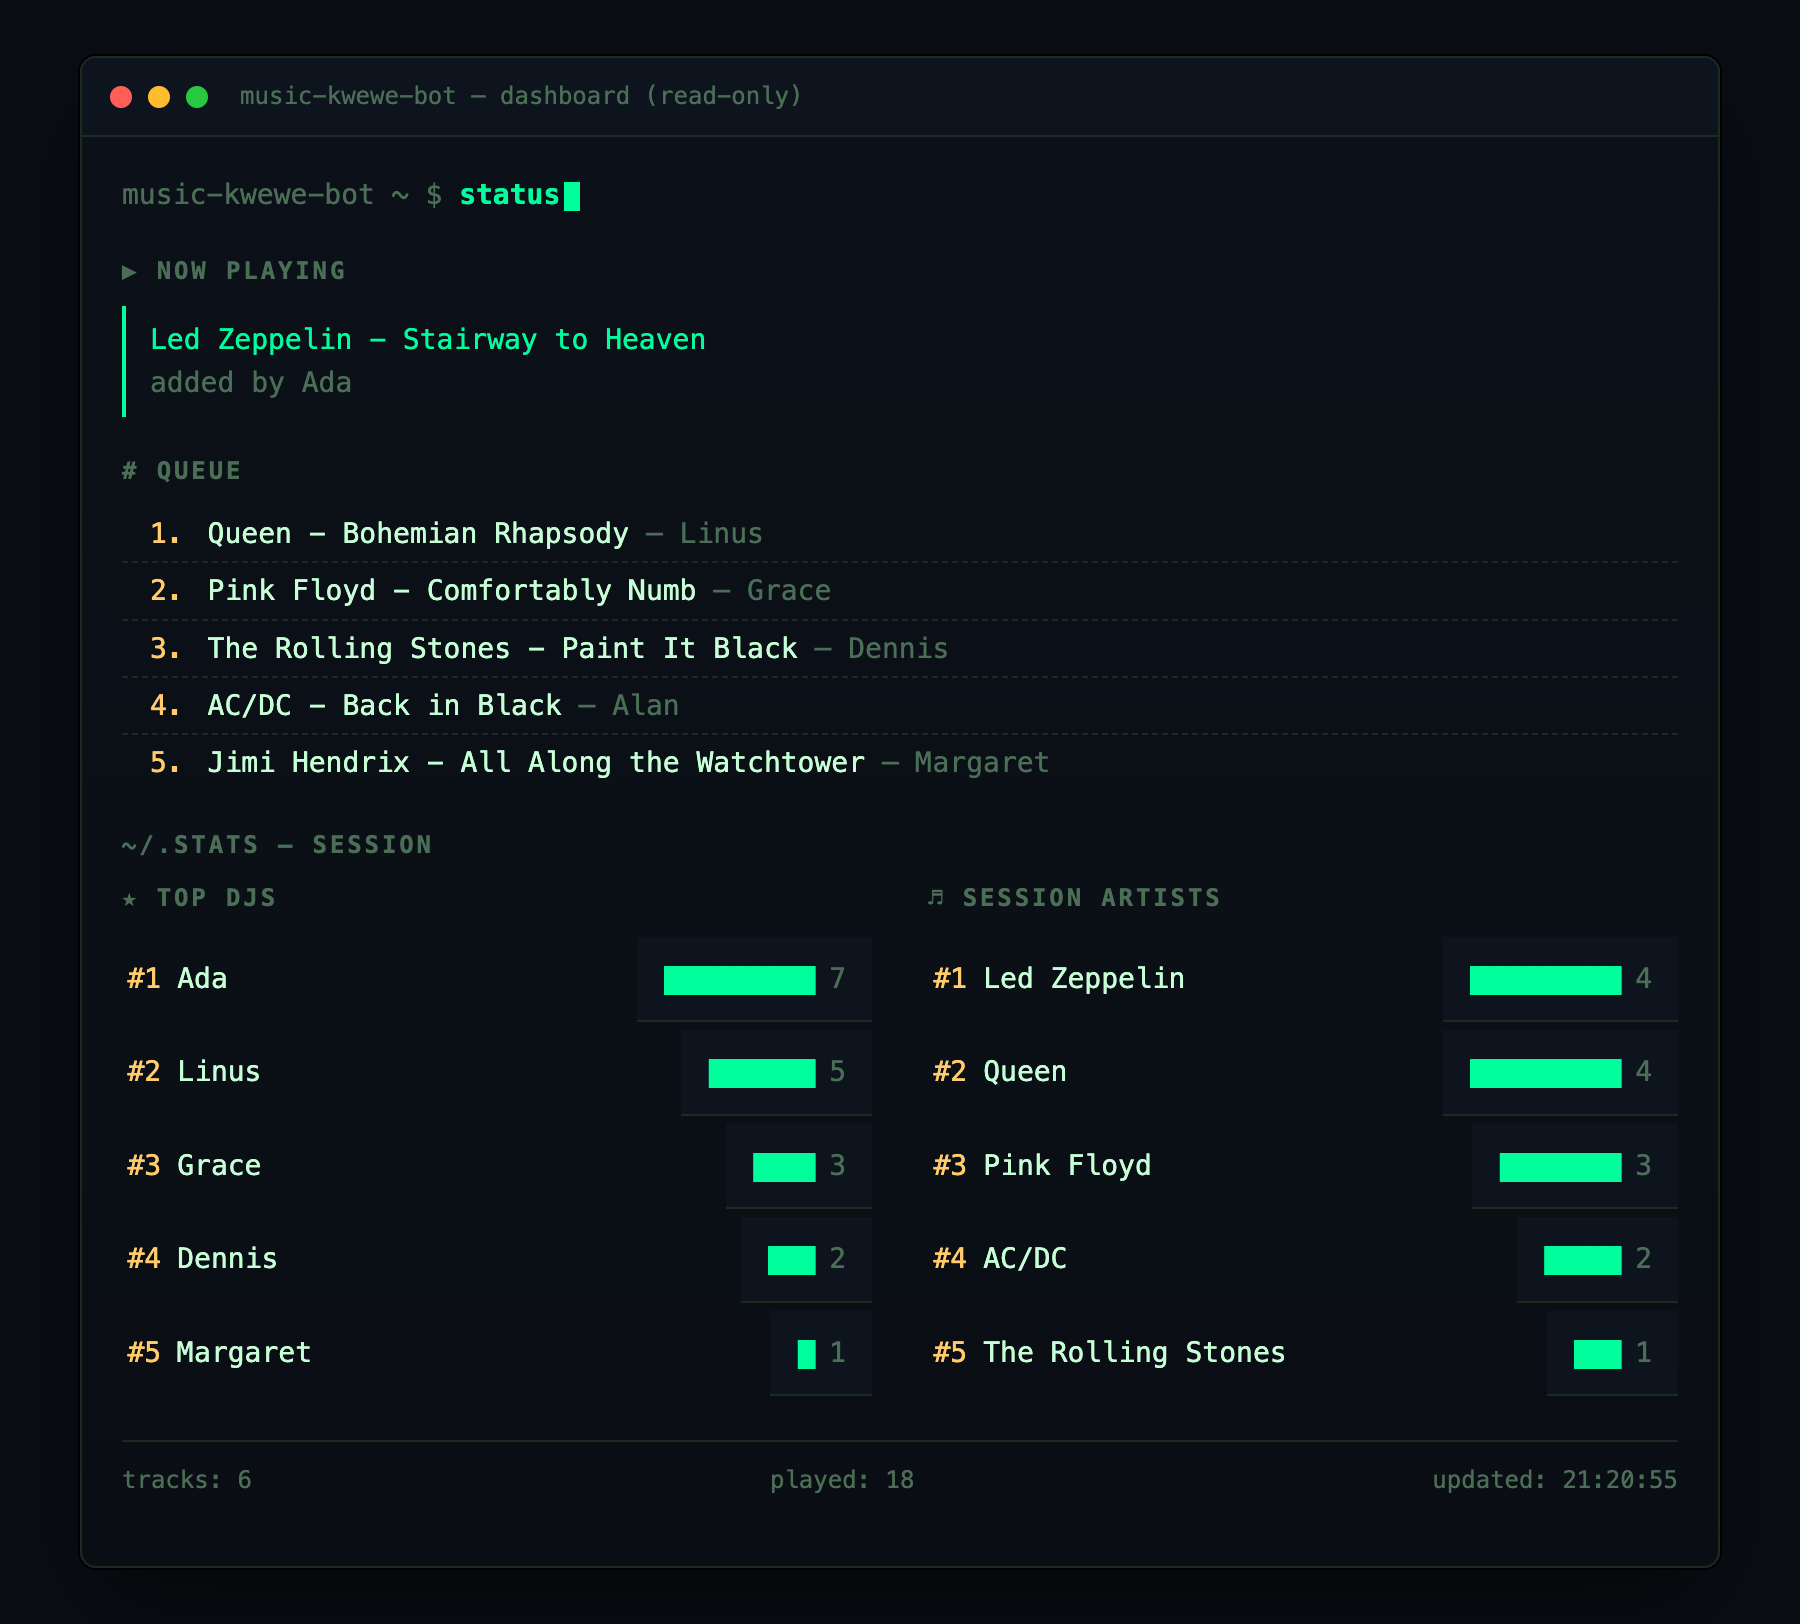
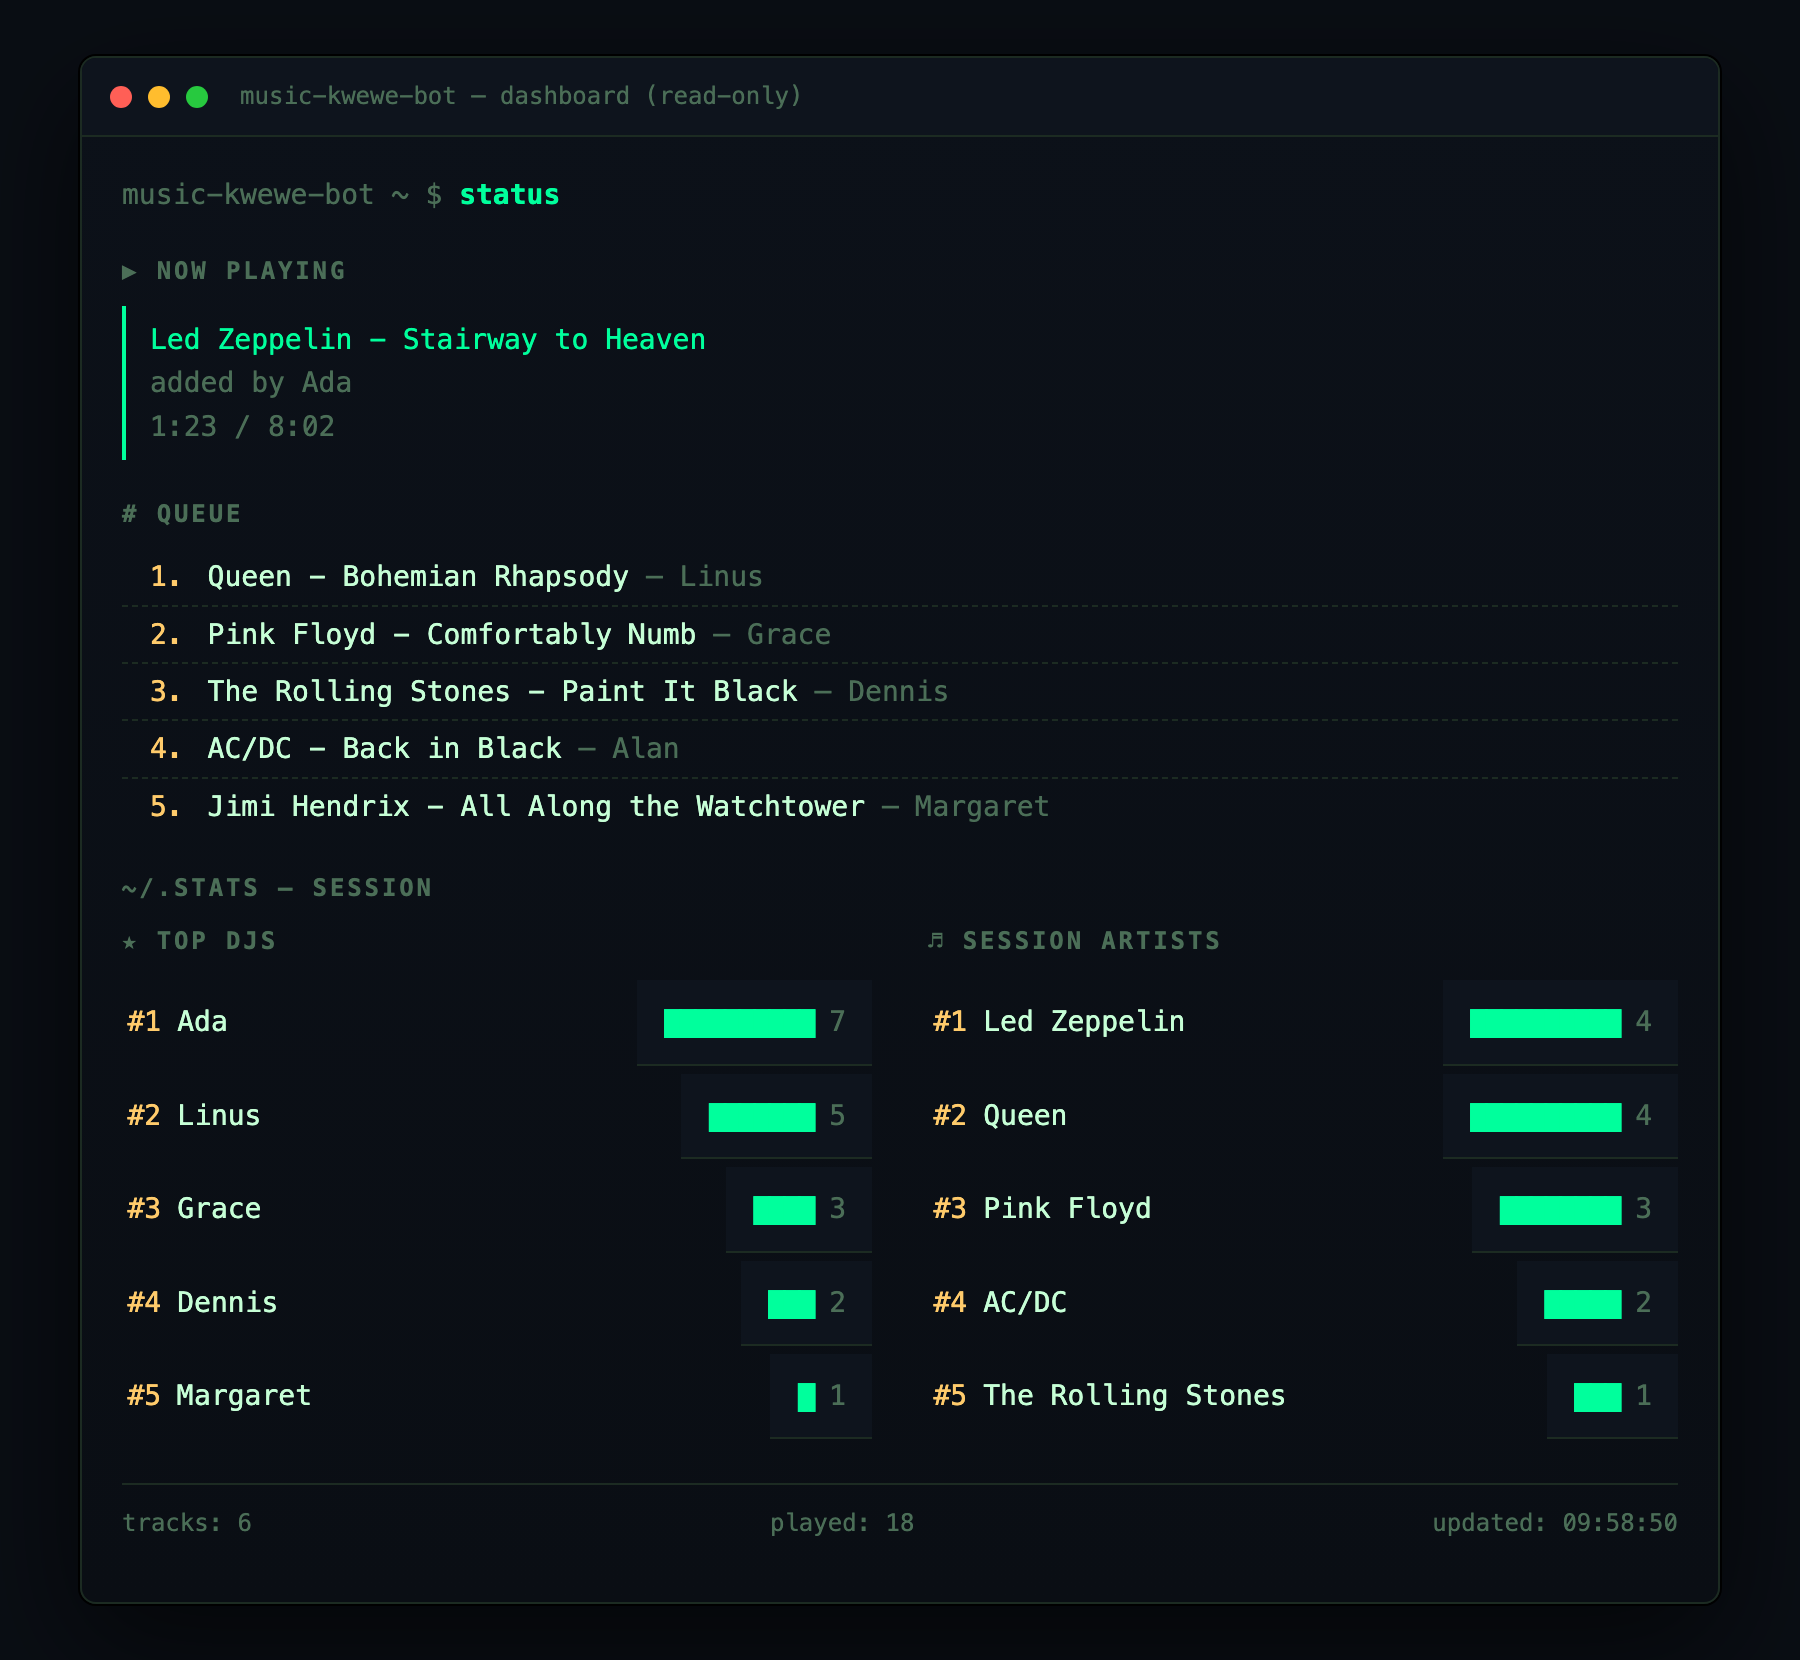
Reframe README around collaborative sessions, refresh screenshot
Pitch the project as a shared listening session instead of an aux-cord
fix, and document the newer features: /pause, the progress clock, and
duplicate detection. The dashboard screenshot is recaptured from the
seeded preview, whose now-playing sample now carries elapsed/duration
so the progress line shows.

diff --git a/cmd/dashpreview/main.go b/cmd/dashpreview/main.go
@@ -11,7 +11,7 @@ import (
 )
 
 const sampleState = `{
-  "now_playing": { "title": "Led Zeppelin - Stairway to Heaven", "added_by": "Ada", "url": "https://www.youtube.com/watch?v=qZTh8DK7jdk" },
+  "now_playing": { "title": "Led Zeppelin - Stairway to Heaven", "added_by": "Ada", "url": "https://www.youtube.com/watch?v=qZTh8DK7jdk", "elapsed": 83, "duration": 482 },
   "queue": [
     { "title": "Queen - Bohemian Rhapsody", "added_by": "Linus", "url": "https://www.youtube.com/watch?v=fJ9rUzIMcZQ" },
     { "title": "Pink Floyd - Comfortably Numb", "added_by": "Grace", "url": "https://www.youtube.com/watch?v=_FrOQC-zEog" },

diff --git a/README.md b/README.md
@@ -1,32 +1,35 @@
 # 🎸 music-kwewe-bot
 
-> One Telegram chat. One speaker. Everybody's a DJ.
+> One group chat. One speaker. Everybody's a DJ.
 
-You know the scene: a few friends, a room, and one set of speakers. Someone
-hooks their laptop up, and for the rest of the night it's a fight over the aux
-cable. **music-kwewe-bot** is the fix. Drop a YouTube link in the group chat and
-it lands in a shared queue — first come, first played, no aux wars. Everyone
-adds, the bot plays them back-to-back, and the running order is fair game for
-the whole crew.
+Get some friends in a room and somebody's phone ends up being the soundtrack —
+one person's playlist, everyone else just along for the ride.
+**music-kwewe-bot** turns that into a session everybody plays: drop YouTube
+links in the group chat and they land in one shared queue, played
+back-to-back in the order they arrived. Your indie deep cut, someone's 2010s
+guilty pleasure, that one friend's habibi-core phase — every taste gets
+airtime, and the session stats show exactly whose night it was.
 
 It's a tiny Go service: a Telegram bot up front, a queue in the middle, and
 `mpv` doing the actual playing out the back.
 
 ![dashboard](assets/dashboard.png)
 
-*(the read-only dashboard — what's spinning now, who queued what, plus the
-session's top DJs and most-played artists)*
+*(the read-only dashboard — what's spinning and how far in, who queued what,
+plus the session's top DJs and most-played artists)*
 
 ## The vibe
 
 - 🎶 **Everyone's the DJ.** Paste a link, it's in the queue. The bot tells the
   chat what just got added and what's playing now.
-- 🤝 **No aux wars.** It's a fair FIFO line. Your banger plays after the bangers
-  ahead of it — not whenever someone yanks the cable.
+- 🤝 **Every taste gets a turn.** It's a fair FIFO line — techno, tarab, or
+  Taylor Swift, your banger plays right after the bangers ahead of it.
 - 🙋 **Credit where it's due.** Every track remembers who queued it, so the
   group knows exactly who's responsible for that third Nickelback song.
-- 🖥 **A little terminal dashboard.** Open it in a browser to see the now-playing
-  track and the full lineup, live.
+- ⏯ **Run it from the couch.** Pause, resume, and skip straight from the chat,
+  with a live progress clock so you know how much of the sad song is left.
+- 🖥 **A little terminal dashboard.** Watch the session live in a browser — or
+  in an actual terminal, if that's more your thing.
 
 ## How it actually works
 
@@ -37,18 +40,21 @@ Telegram chat  →  bot (links + commands)  →  shared FIFO queue  →  player 
 ```
 
 - **bot** — reads the group chat. Any YouTube / `youtu.be` / `music.youtube.com`
-  link gets queued; slash commands run the show.
+  link gets queued; slash commands run the show. Duplicates get bounced with a
+  pointer to where the track already sits.
 - **queue** — an in-memory, thread-safe line. First in, first played.
 - **player** — pulls one track at a time and plays it with `mpv --no-video`.
   mpv leans on `yt-dlp` to resolve the stream, so it **streams** the audio —
-  nothing is downloaded to disk. When a song starts/ends, the chat hears about it.
-- **dashboard** — a read-only web page on `:7070` showing now-playing + queue.
+  nothing is downloaded to disk. It also talks to mpv over its IPC socket,
+  which is what powers pause/resume and the progress clock.
+- **dashboard** — a read-only web page on `:7070` showing now-playing (with
+  elapsed / total time), the lineup, and session stats.
 
 > Heads up: the queue lives in memory, so a restart wipes the lineup. And the
 > music comes out of **the machine running the bot** — so run it on the laptop
 > that's plugged into the speakers.
 
-## Getting the party started
+## Getting the session started
 
 You'll need **Go 1.26+**, plus [`mpv`](https://mpv.io/) and
 [`yt-dlp`](https://github.com/yt-dlp/yt-dlp) (mpv uses yt-dlp to fetch the
@@ -119,14 +125,16 @@ Just paste a link to queue a song. For everything else:
 
 | Command | What it does |
 |---|---|
-| `/now_playing` | What's spinning right now |
+| `/now_playing` | What's spinning, and how far in |
 | `/kwewe` | Show the whole lineup |
+| `/pause` | Pause / resume — one button, like a speaker |
 | `/next` | Jump to the next track |
 | `/skip` | Skip what's playing |
 | `/clear` | Wipe the queue (use responsibly) |
 | `/help` | The cheat sheet |
 
-*(Old habits welcome: `/queue`, `/now`, and `/list` work too.)*
+*(Old habits welcome: `/queue`, `/now`, `/list`, `/play`, and `/resume` work
+too.)*
 
 ## For the tinkerers
 
@@ -143,4 +151,4 @@ a seeded preview with sample data:
 go run ./cmd/dashpreview   # serves the dashboard on :7171 with fake tracks
 ```
 
-Now go forth and settle the aux war for good. 🤘
+Now gather the crew — the best playlists are the ones everybody made. 🤘
